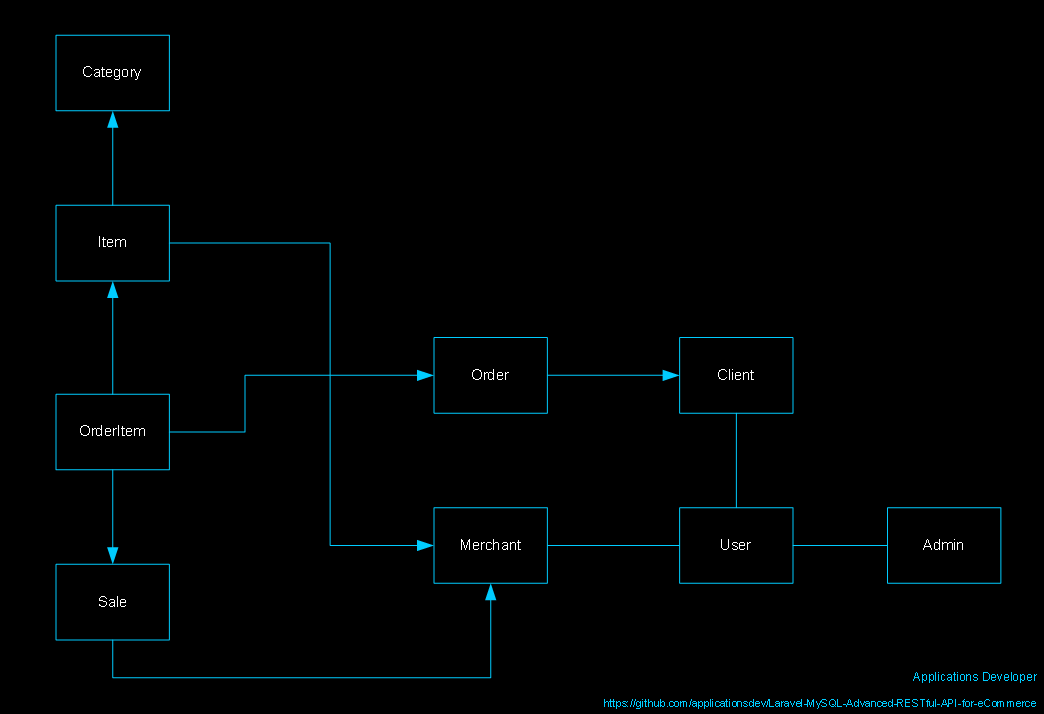
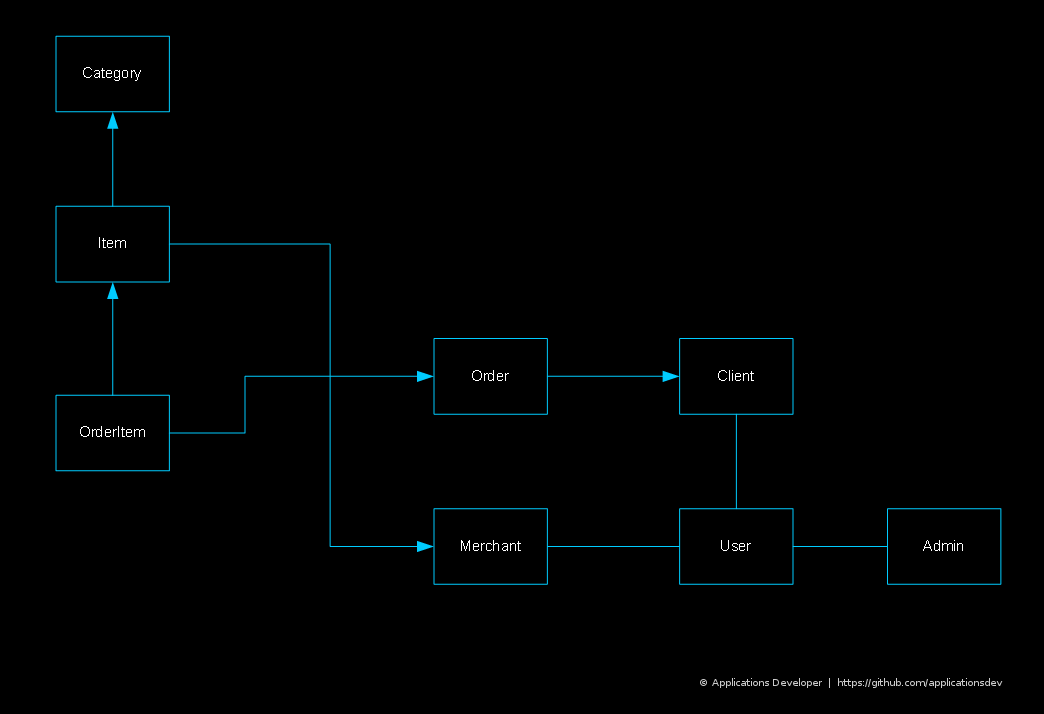
Project revised

diff --git a/database/factories/OrderItemFactory.php b/database/factories/OrderItemFactory.php
@@ -2,13 +2,51 @@
 
 use Faker\Generator as Faker;
 use App\OrderItem;
-
-// NOTE: To simplify testing, this factory generates 'qty' range
-// only within the "at least" (ensured) available qty of any product
+use App\Item;
+use App\Order;
 
 $factory->define(OrderItem::class, function (Faker $faker) {
+    
+    // To simplify testing, all generated Items (via ItemFactory) are available
+    // but as long as OrderItems are generated, Item available_qty gets reduced
+    // and Item status can become 'is_not_available'
+    
+    // Get one random available product
+    $itemToOrder = Item::all()->where('available_qty', '>', 0)->random(1);
+    
+    // Set OrderItem 'qty'
+    // (in current version I simulate B2C shops behavior)
+    $orderItemQty = rand(1, 2);
+    
+    // Calculate OrderItem 'value'
+    $orderItemValue = $orderItemQty * $itemToOrder->catalog_price;
+    
+    // Update Item data after this purchase
+    // (to simplify testing, Order 'status' is not examined in this app version
+    // otherwise the Item data should be updated after payment is verified
+    // and product gets dispatched from our physical warehouse)
+    $itemAvailableQty = $itemToOrder->available_qty;
+    $itemAvailableQty -= $orderItemQty;
+        
+    Item::all()
+        ->where('id', '=', $itemToOrder->id)
+        ->update(['available_qty' => $itemAvailableQty]); // needs [] because it's a "key => value"
+        
+    if ($itemAvailableQty == 0) {
+        Item::all()
+            ->where('id', '=', $itemToOrder->id)
+            ->update(['status' => Config::get('customConstants.item.status.is_not_available')]);
+    }
+    
+    // Export "Key => Value" array so DatabaseSeeder can generate fake OrderItems
     return [
-        'qty' => $faker->numberBetween($min = 1, $max = 5),
-        // to be continued soon in next commits
+        'qty' => $orderItemQty,
+        'value' => $orderItemValue,
+        'item_id' => $itemToOrder->id,
+        'order_id' => Order::all()->random(1)->id,
+        // These fake data are generated for testing purposes
+        // To simplify data generation, it is accepted that Order 'created_at' timestamp
+        // will be a few seconds earlier than OrderItem 'created_at' timestamp
+        // which technically is not realistic, but is helpful for easier testing
     ];
 });

diff --git a/app/User.php b/app/User.php
@@ -11,7 +11,7 @@ class User extends Authenticatable
 {
     use Notifiable;
     
-    // Specify in explicit way the DB table that is associated with the model
+    // Specify in explicit way the DB table that is associated with this model
     protected $table = 'users';
     
     // Mass assignable attributes
@@ -36,22 +36,32 @@ class User extends Authenticatable
     ];
     
     // Token generator for User 'state' verification (Account, Merchant, Moderator)
-    protected function createVerifyToken()
+    public function createVerifyToken()
     {
         return str_random(12); // Longer token can be used in production environment
     }
     
-    // User 'state' checkers (part of security policy)
-    protected function isNotVerified()
+    // 'state' checkers (part of security policy)
+    // To simplify testing of current app version (development-testing environment),
+    // only some of User 'state' checkers are included
+    public function isNotVerified()
     {
         return $this->state == Config::get('customConstants.user.state.is_not_verified');
     }
-    protected function isNotActive()
+    public function isNotActive()
     {
         return $this->state == Config::get('customConstants.user.state.is_not_active');
     }
-    protected function isBlocked()
+    public function isBlocked()
     {
         return $this->state == Config::get('customConstants.user.state.is_blocked');
+    }
+    public function isClient()
+    {
+        return $this->state == Config::get('customConstants.user.state.is_client');
+    }
+    public function isMerchant()
+    {
+        return $this->state == Config::get('customConstants.user.state.is_merchant');
     }
 }

diff --git a/database/factories/ItemFactory.php b/database/factories/ItemFactory.php
@@ -5,21 +5,26 @@ use App\Item;
 use App\Category;
 use App\User;
 
-// NOTE: To simplify testing, this factory generates only Items with
+// To simplify testing, this factory generates only Items with 'available_qty' > 0,
 // 'status'='is_available' and they belong to Categories with 'status'='is_active'
 
 $factory->define(Item::class, function (Faker $faker) {
     return [
         'title' => $faker->word,
         'image_thumbnail' => $faker->imageUrl($width = 500, $height = 500),
-        'description_short' => $faker->text($maxNbChars = 200),
+        'description_short' => $faker->text($maxNbChars = 150),
         
-        'available_qty' => $faker->numberBetween($min = 5, $max = 20),
+        'available_qty' => $faker->numberBetween($min = 2, $max = 20),
         'catalog_price' => $faker->randomElement([79.90, 99.90, 120.00, 158.00, 285.00, 349.00, 490.00]),
         
         'status' => Config::get('customConstants.item.status.is_available'),
         
-        'category_id' => Category::all()->only(Category::isActive())->random()->id,
-        'merchant_id' => User::all()->only(User::isMerchant())->random()->id,
+        'category_id' => Category::all()
+            ->where('status', '=', Config::get('customConstants.category.status.is_active'))
+            ->random(1)->id,
+        
+        'merchant_id' => User::all()
+            ->where('state', '=', Config::get('customConstants.user.state.is_merchant'))
+            ->random(1)->id,
     ];
 });

diff --git a/app/Item.php b/app/Item.php
@@ -8,6 +8,9 @@ use App\Category;
 use App\Merchant;
 use App\OrderItem;
 
+// To simplify testing, a simple Item model is designed in current version
+// Real-scale eCommerce apps may use many Item attributes & features (ex. discounts etc)
+
 class Item extends Model
 {
     // Mass assignable attributes
@@ -19,22 +22,34 @@ class Item extends Model
         'catalog_price',
         'status',
         'category_id',
-        'merchant_id'
+        'merchant_id',
     ];
     
-    // DB relations
+    // DB relationships
     public function category()
     {
         return $this->belongsTo(Category::class);
     }
-    
     public function merchant()
     {
         return $this->belongsTo(Merchant::class);
     }
-    
     public function orderItems()
     {
         return $this->hasMany(OrderItem::class);
+    }
+    
+    // 'status' checkers
+    public function isNotActive()
+    {
+        return $this->status == Config::get('customConstants.item.status.is_not_active');
+    }
+    public function isNotAvailable()
+    {
+        return $this->status == Config::get('customConstants.item.status.is_not_available');
+    }
+    public function isAvailable()
+    {
+        return $this->status == Config::get('customConstants.item.status.is_available');
     }
 }

diff --git a/database/migrations/2018_01_25_103510_create_order_items_table.php b/database/migrations/2018_01_25_103510_create_order_items_table.php
@@ -16,18 +16,16 @@ class CreateOrderItemsTable extends Migration
         Schema::create('order_items', function (Blueprint $table) {
             $table->increments('id');
             
-            $table->integer('qty')->unsigned()->default(1);
+            $table->integer('qty')->unsigned()->default(0);
             $table->decimal('value', 6, 2)->unsigned()->default(0.00);
             
             $table->integer('item_id')->unsigned();
             $table->integer('order_id')->unsigned();
-            $table->integer('sale_id')->unsigned();
             
             $table->timestamps();
             
             $table->foreign('item_id')->references('id')->on('items');
             $table->foreign('order_id')->references('id')->on('orders');
-            $table->foreign('sale_id')->references('id')->on('sales');
         });
     }
 

diff --git a/database/factories/OrderFactory.php b/database/factories/OrderFactory.php
@@ -1,0 +1,21 @@
+<?php
+
+use Faker\Generator as Faker;
+use App\Order;
+use App\User;
+
+$factory->define(Order::class, function (Faker $faker) {
+    return [
+        // 'value' => 0.00,
+        // By migration default will be set to 0.00 & will be fixed in DatabaseSeeder because
+        // 1. on purpose I execute OrderFactory before OrderItemFactory
+        // 2. some Orders can have more than 1 OrderItems, which is closer to real situation
+        
+        // 'status' => 'completed',
+        // This feature is not examined in current app version & by migration default will be set to null
+        
+        'client_id' => User::all()
+            ->where('state', '=', Config::get('customConstants.user.state.is_client'))
+            ->random(1)->id,
+    ];
+});

diff --git a/database/factories/UserFactory.php b/database/factories/UserFactory.php
@@ -14,6 +14,8 @@ use App\User;
 |
 */
 
+// To simplify testing, only some of User 'state' cases are created
+
 $factory->define(User::class, function (Faker $faker) {
     return [
         'name' => $faker->name,
@@ -32,7 +34,6 @@ $factory->define(User::class, function (Faker $faker) {
             Config::get('customConstants.user.state.is_not_verified'),
             Config::get('customConstants.user.state.is_client'),
             Config::get('customConstants.user.state.is_merchant'),
-            Config::get('customConstants.user.state.is_moderator'),
         ]),
         
         'remember_token' => str_random(10),

diff --git a/app/OrderItem.php b/app/OrderItem.php
@@ -6,7 +6,6 @@ namespace App;
 use Illuminate\Database\Eloquent\Model;
 use App\Item;
 use App\Order;
-use App\Sale;
 
 class OrderItem extends Model
 {
@@ -16,22 +15,15 @@ class OrderItem extends Model
         'value',
         'item_id',
         'order_id',
-        'sale_id',
     ];
     
-    // DB relations
+    // DB relationships
     public function item()
     {
         return $this->belongsTo(Item::class);
     }
-    
     public function order()
     {
         return $this->belongsTo(Order::class);
-    }
-    
-    public function sale()
-    {
-        return $this->belongsTo(Sale::class);
     }
 }

diff --git a/app/Category.php b/app/Category.php
@@ -13,12 +13,22 @@ class Category extends Model
         'title',
         'image_thumbnail',
         'description_short',
-        'status'
+        'status',
     ];
     
-    // DB relations
+    // DB relationships
     public function items()
     {
         return $this->hasMany(Item::class);
+    }
+    
+    // 'status' checkers
+    public function isNotActive()
+    {
+        return $this->status == Config::get('customConstants.category.status.is_not_active');
+    }
+    public function isActive()
+    {
+        return $this->status == Config::get('customConstants.category.status.is_active');
     }
 }

diff --git a/app/Order.php b/app/Order.php
@@ -4,8 +4,8 @@ namespace App;
 
 // Requires
 use Illuminate\Database\Eloquent\Model;
-use App\OrderItem;
 use App\Client;
+use App\OrderItem;
 
 class Order extends Model
 {
@@ -16,14 +16,13 @@ class Order extends Model
         'client_id',
     ];
     
-    // DB relations
-    public function orderItems()
-    {
-        return $this->hasMany(OrderItem::class);
-    }
-    
+    // DB relationships
     public function client()
     {
         return $this->belongsTo(Client::class);
+    }
+    public function orderItems()
+    {
+        return $this->hasMany(OrderItem::class);
     }
 }

diff --git a/database/migrations/2014_10_12_000000_create_users_table.php b/database/migrations/2014_10_12_000000_create_users_table.php
@@ -17,7 +17,8 @@ class CreateUsersTable extends Migration
         Schema::create('users', function (Blueprint $table) {
             $table->increments('id');
             
-            $table->string('name', 50);
+            $table->string('name', 50)->default('New User');
+            
             $table->string('email', 100)->unique();
             $table->string('password', 100);
             

diff --git a/app/Merchant.php b/app/Merchant.php
@@ -4,18 +4,12 @@ namespace App;
 
 // Requires
 use App\Item;
-use App\Sale;
 
 class Merchant extends User
 {
-    // DB relations
+    // DB relationships
     public function items()
     {
         return $this->hasMany(Item::class);
-    }
-    
-    public function sales()
-    {
-        return $this->hasMany(Sale::class);
     }
 }
